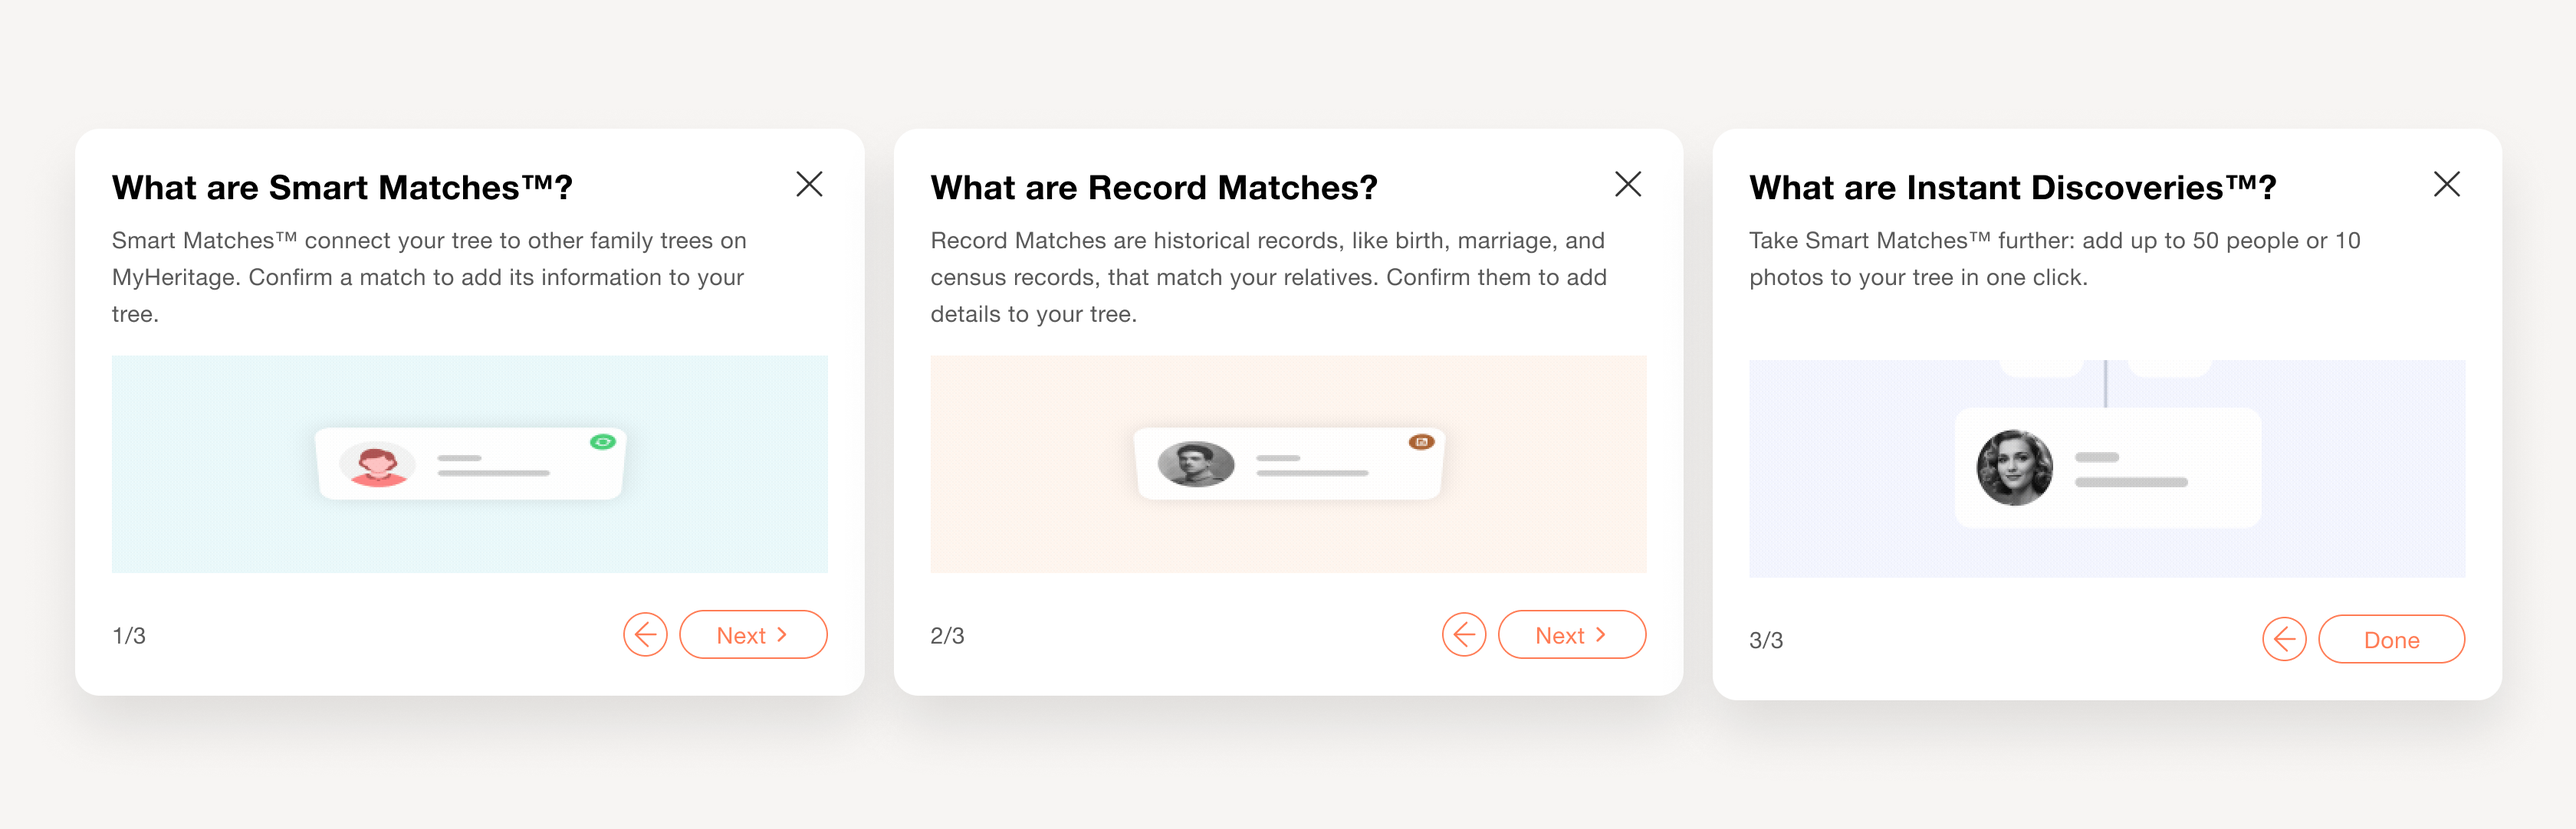
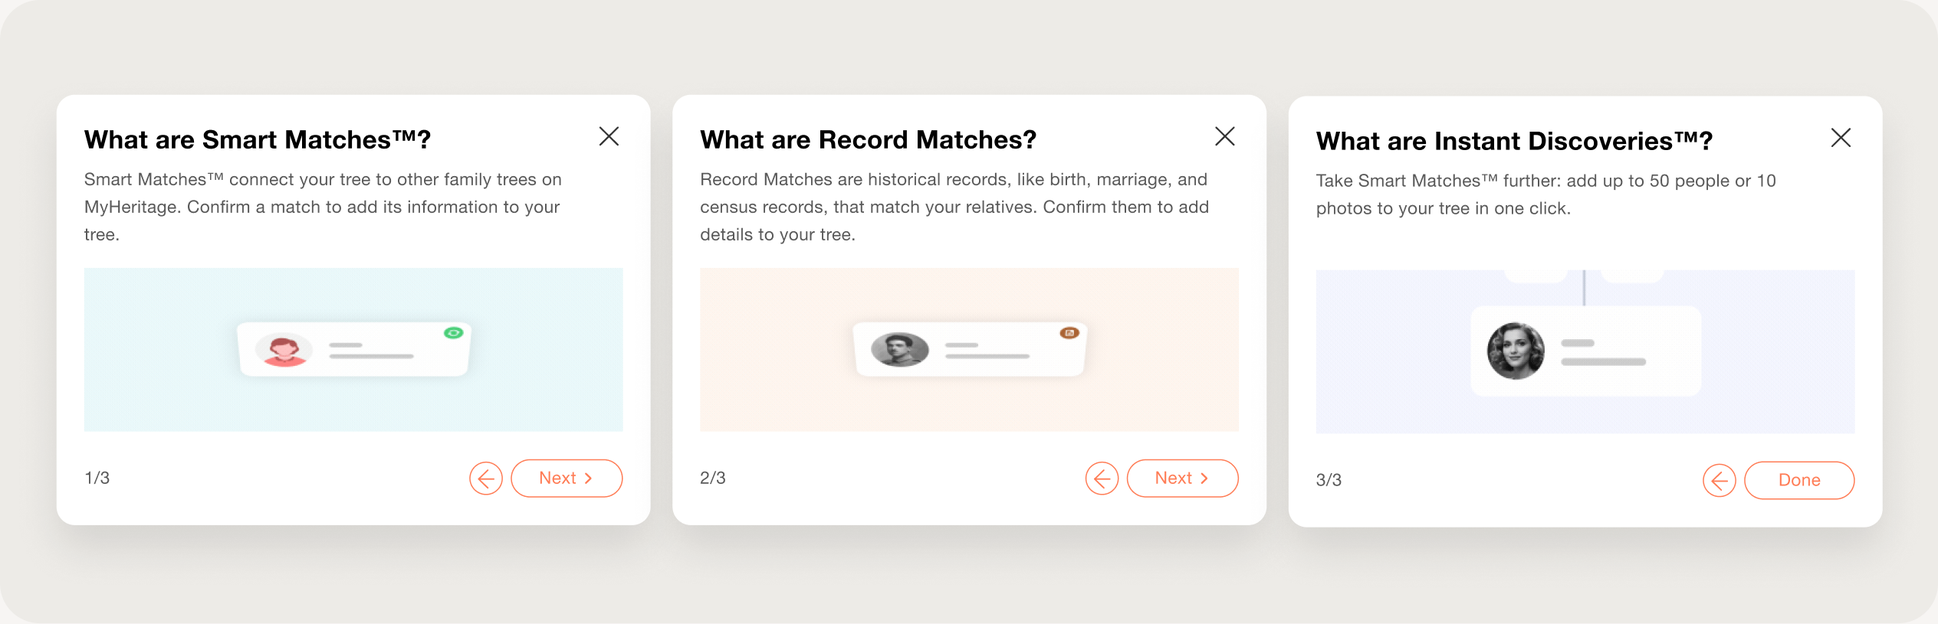
Update the Checklist case study to the edited Figma frame
- New copy throughout, following Case study / The Checklist – edited
- Add the Value Moments flywheel and the four ideas, each with the step it drives
- Rebuild chapter 4 around four aspects with screens from the recordings
- New funnel chart and modals panel exported from Figma
- Support a small label under a point, a per-project title size and extra room under title-only chapters

Claude-Session: https://claude.ai/code/session_01RtyWztGfd7GikxGryiffnU

diff --git a/site/yael-portfolio/scripts/projects.js b/site/yael-portfolio/scripts/projects.js
@@ -108,6 +108,7 @@ window.PROJECTS = [
   {
     slug: 'checklist',
     name: 'The Checklist',
+    titleSize: 'clamp(56px, 7.6vw, 110px)',
     outcome: 'A guided checklist that shows new users what to do next, so they keep growing their family tree and reach their first valuable match.',
     role: 'Product designer',
     industry: 'B2C',
@@ -126,27 +127,28 @@ window.PROJECTS = [
     chaptersTitle: false,
     team: false,
     impactSection: false,
-    lead: 'Only about 3 in 10 people who finish onboarding go on to add anyone to their tree. The Checklist shows them what to do next.',
-    // Story follows the Checklist case study in Figma (Checklist file, Case study / The Checklist).
+    lead: 'Only 3 in 10 people who finish onboarding go on to add another relative. The Checklist shows them what to do next.',
+    // Story follows the Checklist case study in Figma (Case studies file, Case study / The Checklist – edited).
     chapters: [
       { title: 'The problem',
-        line: 'People sign up for the family tree, but few keep building it.',
+        line: 'People sign up to build a family tree, but most stop after the first few relatives.',
         lineBelow: true,
-        body: ['Family tree users start with Magic 7, the onboarding where they add their first relatives. Half of the people who register never start it, only half of those who start finish it, and about 30% of those who finish go on to add individuals manually.',
-               'That matters because matches are what make MyHeritage worth coming back to, and matches come from the information users add. Without more relatives and facts there are no valuable matches, and without matches there is little reason to continue.'],
+        body: ['New family tree users start with Magic 7, the onboarding flow where they add their first relatives. Half of the people who register never start it. Half of those who start never finish. And of those who finish, only about 30% go on to add anyone else on their own.',
+               'That matters because matches are why people come back to MyHeritage, and matches are built from what users add. Fewer relatives and facts means fewer valuable matches, and without matches there is little reason to return.'],
         sections: [
           { title: 'The funnel',
-            body: ['In the last 30 days, 391.4K people registered through the family tree. 197.4K started Magic 7, 98.1K completed it, and 28.8K added an individual manually afterwards.'],
-            media: { src: 'assets/images/checklist/funnel.png', wide: true, bare: true, alt: 'A funnel chart of the last 30 days for the family tree: 391.4K registered, 197.4K (50.43%) started Magic 7, 98.11K (49.7% of those) completed it, and 28.81K (29.36% of those) added an individual manually. Overall, 7.36% of registrants reach the last step.' } },
+            body: ['In the last 30 days, 391.4K people registered through the family tree. 197.4K started Magic 7, 98.1K finished it, and only 28.8K added a relative on their own afterwards.'],
+            media: { src: 'assets/images/checklist/funnel.png', wide: true, bare: true, alt: 'A bar chart of the family tree funnel over the last 30 days: 391.4K registered, 197.4K (50.43%) started Magic 7, 98.11K (25.07%) completed it, and 28.81K (7.36%) added an individual manually. Overall, 7.36% of registrants reach step 4.' } },
           { title: 'What the numbers say',
             stats: [
-              { number: '30%', text: 'of users who complete Magic 7 go on to add individuals manually.' },
-              { number: '50%', text: 'of users who start Magic 7 finish it, so half never reach the first moment of value.' },
-              { number: '54%', text: 'of users who completed Magic 7 have fewer than 8 individuals in their tree.' }
+              { number: '50%', text: 'of users who start Magic 7 finish it. The other half never reach their first moment of value.' },
+              { number: '30%', text: 'of users who finish Magic 7 go on to add relatives on their own.' },
+              { number: '54%', text: 'of users who finish Magic 7 have fewer than 8 people in their tree.' }
             ] }
         ] },
       { title: 'The research',
-        line: 'We conducted a survey to users who signed up and completed Magic 7 in the past 2 months',
+        subGap: 80,
+        line: 'We surveyed users who signed up and finished Magic 7 in the past two months, to learn why they stopped.',
         lineBelow: true,
         sections: [
           { title: 'In their own words',
@@ -155,37 +157,47 @@ window.PROJECTS = [
                      '“I don’t know the exact names or details of additional relatives, and I wasn’t sure how to add them.”',
                      '“It felt overwhelming or complex”'] },
           { title: 'Key pain points',
-            points: ['Unclear how matches are generated, so the value of adding facts is unclear too.',
+            points: ['Unclear how matches are made, so it’s unclear why adding facts is worth it.',
                      'Hesitation to add incomplete details or living relatives.',
                      'Frustration with matches that come late, or not at all.'] }
         ] },
       { title: 'The hypothesis',
-        body: ['If users get more, or any, valuable matches, they will add more information, and that brings them more matches. Our job was to get that loop turning, with four ideas to test:'],
-        sections: [
-          { boldLead: true,
-            points: ['Educate. Show users that the more information they add, facts and relatives, the more valuable matches they get.',
-                     'Teach. Show users how to add more individuals and facts, so that more of them do it.',
-                     'Guide. Show users where to find their matches and how the types differ (Record Matches, Smart Matches and Instant Discoveries), so that more of them engage with matches.',
-                     'Direct. Show users what to do next, and how it connects to getting valuable matches.'] }
-        ] },
-      { title: 'The Checklist',
-        line: 'A guided, personalized experience after Magic 7.',
+        line: 'If users get valuable matches early, they’ll add more to their tree, and a bigger tree brings even more matches. We called this loop the ‘Value Moments’ flywheel.',
         lineBelow: true,
-        body: ['The Checklist sits in the family tree and shows each user exactly what to do next to reach their first meaningful match, in small steps with visible progress.'],
         sections: [
-          { title: 'Task 1: Add three more individuals',
-            body: ['We must not break the momentum of users adding relatives in their first session'] },
-          { title: 'Task 2: Run Branch Builder',
-            body: ['Trigger the Branch Builder widget'] },
-          { title: 'Task 3: Review your matches',
-            body: ['Send users to the Matches by people page for instant discovery.'],
+          { media: { src: 'assets/images/checklist/flywheel.png', wide: true, bare: true,
+                     alt: 'The Value Moments flywheel: a loop of three steps. 1, Acquire data: help users easily add more data to their tree, driven by Educate and Teach. 2, Compute: use the user’s data and MyHeritage data to create quality matches, handled by MyHeritage. 3, Utilize: help users use and benefit from MyHeritage data, driven by Guide and Direct. MyHeritage’s matching engine handles Compute; our job was to move the two steps users own.' } },
+          { title: 'Four ideas to get the wheel turning',
+            boldLead: true,
+            points: [{ text: 'Educate. Show users that the more they add, relatives and facts, the more valuable matches they get.', tag: 'Drives step 1 · Acquire data' },
+                     { text: 'Teach. Show users how to add individuals and facts, so more of them do it.', tag: 'Drives step 1 · Acquire data' },
+                     { text: 'Guide. Show users where their matches are and how Record Matches, Smart Matches and Instant Discoveries differ.', tag: 'Drives step 3 · Utilize' },
+                     { text: 'Direct. Show users what to do next and how it leads to valuable matches.', tag: 'Closes the loop · back to step 1' }] }
+        ] },
+      { title: 'The Checklist: four guided steps to a first match',
+        subGap: 55,
+        sections: [
+          { title: 'Little wins, from the first second',
+            body: ['When users open the Checklist, they’ve already made progress. “Start your family tree” is checked off from Magic 7, so they start at 1/4, not zero, and a burst of confetti marks the win. The next task, adding relatives, continues what they were just doing, so the next check mark comes quickly.'],
+            media: { src: 'assets/images/checklist/little-wins.jpg', wide: true, alt: 'The MyHeritage family tree with the “Family tree checklist” entry point in the corner, at 0 of 4 steps' } },
+          { title: 'Visible progress that pulls you forward',
+            body: ['Every relative added earns a +1, and the step’s ring fills as users get closer. Each finished step turns green and fills a segment of the bar, and the closer users get to done, the stronger the pull to finish. Branch Builder™ adds many relatives in one click: a big jump for little effort.'],
+            media: { src: 'assets/images/checklist/visible-progress.jpg', wide: true, alt: 'The family tree with the Checklist entry point showing 1 of 4 steps done and the first segment of the progress bar filled in green' } },
+          { title: 'Certainty: always know what to do next',
+            body: ['Each step has one clear action, and the “Family tree checklist” entry point stays in the tree so users can always come back to it. “What are matches?” opens a short explainer, and when nothing is ready yet, the Checklist says so honestly: “No matches found yet. Try adding a few more relatives, birth dates, or death dates.”'],
             media: { src: 'assets/images/checklist/matches-modals.png', wide: true, bare: true,
-                     alt: 'Three onboarding modals explain Smart Matches, Record Matches and Instant Discoveries, each with a short looping animation.',
+                     alt: 'Three explainer modals: What are Smart Matches™, What are Record Matches, and What are Instant Discoveries™, each with a short looping animation.',
                      overlays: [
                           { src: 'assets/images/checklist/modal-smart-matches.gif', x: 4.345, y: 42.884, w: 27.798, h: 26.248 },
                           { src: 'assets/images/checklist/modal-record-matches.gif', x: 36.131, y: 42.884, w: 27.798, h: 26.248 },
                           { src: 'assets/images/checklist/modal-instant-discoveries.gif', x: 67.917, y: 43.438, w: 27.798, h: 26.248 }
                      ] } },
+          { title: 'Incentive: a clear reward at the end',
+            body: ['The header names both the user and the reward: “Laura, complete these steps to increase your chances of receiving discoveries.” The last step waits until there’s something to show, then unlocks with a “12 matches found” badge and a glowing Review button. And as the tree grows, an “Excellent!” moment celebrates the progress and invites users to keep going.'],
+            media: { row: { stack: true, natural: true, images: [
+              { src: 'assets/images/checklist/incentive-checklist.jpg', alt: 'The open Checklist: “Laura, complete these steps to increase your chances of receiving discoveries”, 3 of 4 steps completed, with Review your matches still waiting for matches' },
+              { src: 'assets/images/checklist/incentive-tree.jpg', alt: 'The family tree grown to 14 people across four generations' }
+            ] } } },
           { title: 'What we expected',
             boldLead: true,
             points: ['Proactivity. More users reach activation by getting familiar with the product and actively growing their tree.',
@@ -195,18 +207,18 @@ window.PROJECTS = [
       { title: 'The A/B test',
         line: 'Does a checklist after Magic 7 help people keep growing their tree?',
         lineBelow: true,
-        body: ['The data showed that 70% of users stop adding relatives manually after Magic 7. Many see onboarding as finished, and don’t realize their tree has to keep growing to unlock meaningful discoveries. Many also skip the first walkthrough, and stay unsure how to do the core things in the family tree.',
-               'The Checklist is meant to close that activation gap: it teaches users what to do, and gives clear, timely guidance on the next high-value step.'],
+        body: ['Our data showed that 70% of users stop adding relatives after Magic 7. Many see onboarding as finished and don’t realize their tree needs to keep growing to unlock meaningful discoveries. Many also skip the first walkthrough and aren’t sure how to do the basics in the family tree.',
+               'The Checklist was designed to close that gap: it teaches users what to do, and gives clear, timely guidance on the next most valuable step.'],
         sections: [
           { title: 'What we measured',
             boldLead: true,
             points: ['Activation after Magic 7. The share of users who add at least one relative once Magic 7 is done.',
                      'More matches. The share of users who get at least one Smart Match, Record Match or Instant Discovery.',
                      'Engagement with matches. Users viewing, confirming or rejecting the matches they get.',
-                     'Billing. Conversion rate and net billing, with checklist adoption (one task, two tasks, or all of them), drop-off per task and the activity score tracked alongside.'] }
+                     'Billing. Conversion rate and net billing, tracked alongside checklist adoption (one task, two, or all), drop-off per task, and activity score.'] }
         ] },
       { title: 'The results',
-        line: 'The Checklist worked',
+        line: 'More people kept building their tree',
         lineBelow: true,
         sections: [
           { stats: [
@@ -218,7 +230,7 @@ window.PROJECTS = [
       { title: 'What users told us',
         line: 'We surveyed 76 people per variant, to understand what in the Checklist could explain their behavior.',
         lineBelow: true,
-        body: ['The Checklist itself is clear: most users understood its parts, including the progress bar and the tasks. Onboarding also felt clearer, with a 2% lift in “better than expected” and a 5% lift in knowing what to do next.'],
+        body: ['The Checklist itself was clear: most users understood its parts, including the progress bar and the tasks. Onboarding felt clearer too, with a 2% lift in users rating it “better than expected”.'],
         sections: [
           { title: 'What the survey showed',
             stats: [
@@ -228,9 +240,9 @@ window.PROJECTS = [
             ] }
         ] },
       { title: 'What we decided',
-        line: 'Roll out and keep testing where it is unclear, and go back where it does not help.',
+        line: 'Roll it out, keep testing what’s still unclear, and pull back what doesn’t help.',
         lineBelow: true,
-        body: ['Strong checklist engagement, a clear effect on tree growth, and positive signals on matches and activity. Billing is positive and consistent, but not yet significant.']
+        body: ['The Checklist drove strong engagement and a clear lift in tree growth, with positive signals on matches and activity. Billing moved in the right direction but isn’t significant yet. The next opportunity: 75% of users who got stuck left the site, so suggesting another next step at that moment could keep them going.']
       }
     ]
   },

diff --git a/site/yael-portfolio/scripts/case.js b/site/yael-portfolio/scripts/case.js
@@ -53,6 +53,8 @@
   if (p.lead === false) document.querySelector('.case-lead').remove();
   // longTitle: a long project name is set smaller so it stays on one line
   if (p.longTitle) document.querySelector('.case-title h1').classList.add('is-long');
+  // titleSize: a project can set its own title size (any CSS length, e.g. a clamp())
+  if (p.titleSize) document.querySelector('.case-title h1').style.fontSize = p.titleSize;
 
   // chapters: a project can list its own (see projects.js); otherwise the shared template below.
   // An image is { src, alt, wide } composed in Figma, { crop: 'x% y%', zoom } taken from the
@@ -186,7 +188,9 @@
       const ul = document.createElement('ul');
       // quotes: the items are quotations, so no bullet dots
       ul.className = 'chapter-points' + (c.quotes ? ' is-quotes' : '');
-      c.points.forEach((pt) => {
+      c.points.forEach((item) => {
+        // a point is a string, or { text, tag } where tag is a small coloured label under it
+        const pt = typeof item === 'string' ? item : item.text;
         const li = document.createElement('li');
         if (c.quotes && pt.startsWith('“')) {
           // the opening quote mark is lifted out so it can be set very large above the quote
@@ -202,6 +206,12 @@
           li.append(strong, pt.slice(cut));
         } else {
           li.textContent = pt;
+        }
+        if (item.tag) {
+          const tag = document.createElement('span');
+          tag.className = 'point-tag';
+          tag.textContent = item.tag;
+          li.append(tag);
         }
         ul.append(li);
       });
@@ -454,6 +464,12 @@
       article.classList.add('has-subs');
       c.sections.forEach((s, j) => {
         const sub = buildChapter(s);
+        // subGap: room (px) between a title-only chapter and its first sub-section, instead of the tight default
+        if (j === 0 && c.subGap) {
+          const first = sub.querySelector('.chapter');
+          first.style.paddingTop = 'min(' + c.subGap + 'px, 12vw)';
+          first.style.marginTop = '0';
+        }
         if (j === c.sections.length - 1) sub.querySelector('.chapter').classList.add('is-last');
         list.append(sub);
       });

diff --git a/site/yael-portfolio/styles/case.css b/site/yael-portfolio/styles/case.css
@@ -79,6 +79,8 @@
 }
 .chapter-num { font-size: 15px; color: var(--muted); font-variant-numeric: tabular-nums; }
 .chapter-title { margin: 0; font-size: 36px; line-height: 1.18; }
+/* a chapter title with no line beside it takes the full width */
+.chapter:not(.is-sub) > .chapter-head:not(:has(.chapter-line)) .chapter-title { grid-column: 2 / -1; }
 .chapter-line { margin: 0; font-size: 16px; line-height: 1.45; color: var(--muted); }
 /* subtitle: the line sits under the title (phones already stack it this way),
    as large as the paragraph text and as dark as the title */
@@ -401,6 +403,8 @@
 .chapter-media.is-narrow { max-width: 375px; }
 
 .chapter-points strong { font-weight: 600; }
+/* a small coloured label under a point */
+.point-tag { display: block; margin-top: 8px; font-size: 15px; font-weight: 500; line-height: 1.65; color: var(--signal); }
 
 /* a phone beside the text: the text sits halfway down the phone instead of level with its top (stacked again on phones) */
 @media (min-width: 761px) {

diff --git a/site/yael-portfolio/styles/tokens.css b/site/yael-portfolio/styles/tokens.css
@@ -9,6 +9,7 @@
   --line: #E0DBD5;          /* hairlines and dividers */
   --accent: #111111;        /* links on hover, focus ring */
   --dim: #000000;           /* overlay on cards that sink back */
+  --signal: #B83A24;        /* small labels in case studies, e.g. which flywheel step an idea drives */
 
   /* glass and blur */
   --header-bg: rgba(247, 245, 243, 0.6);
